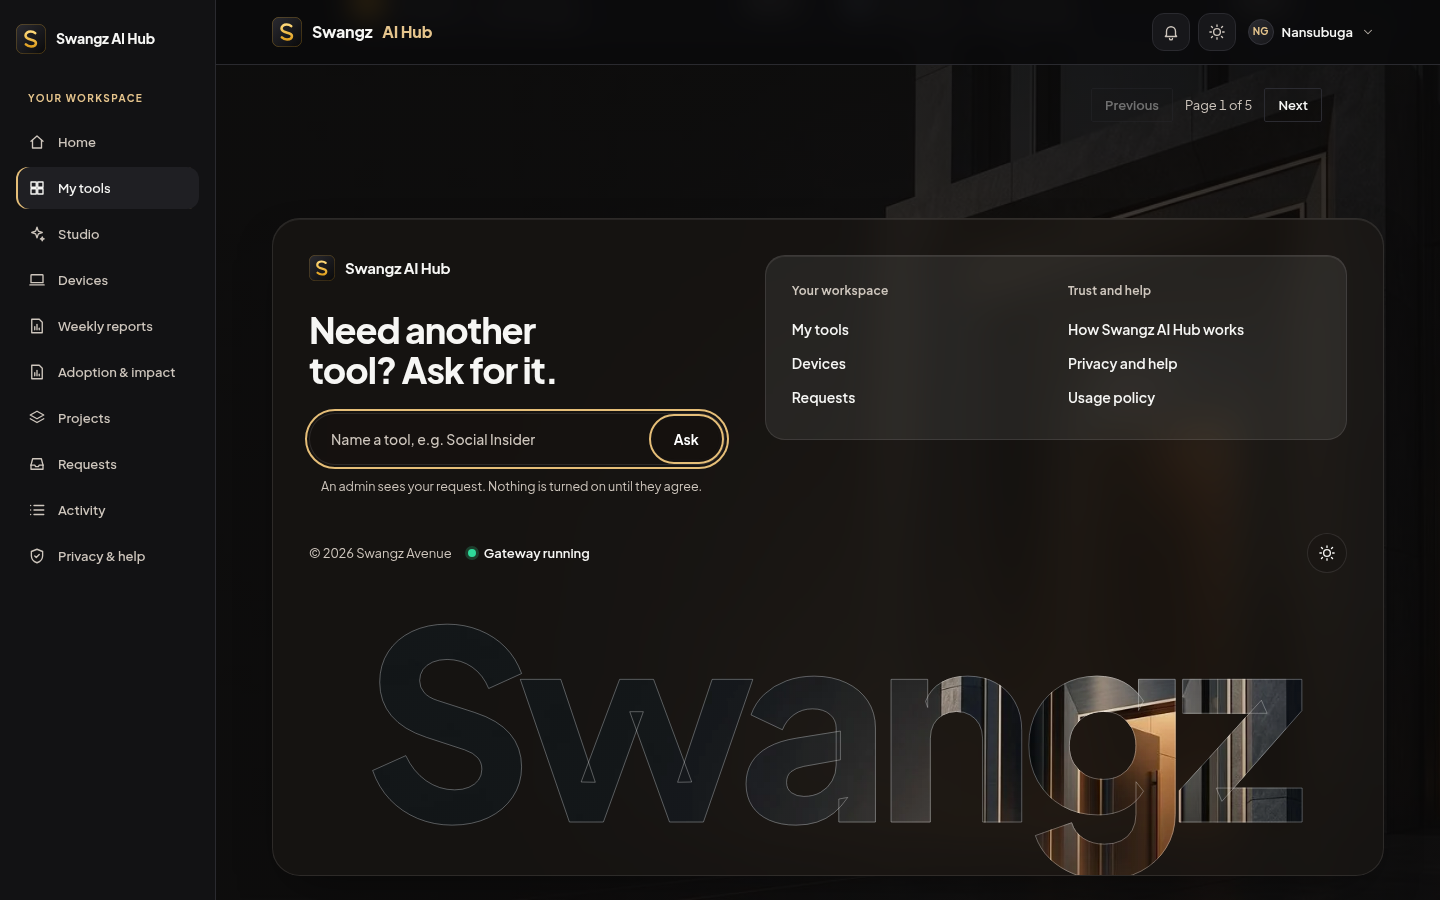
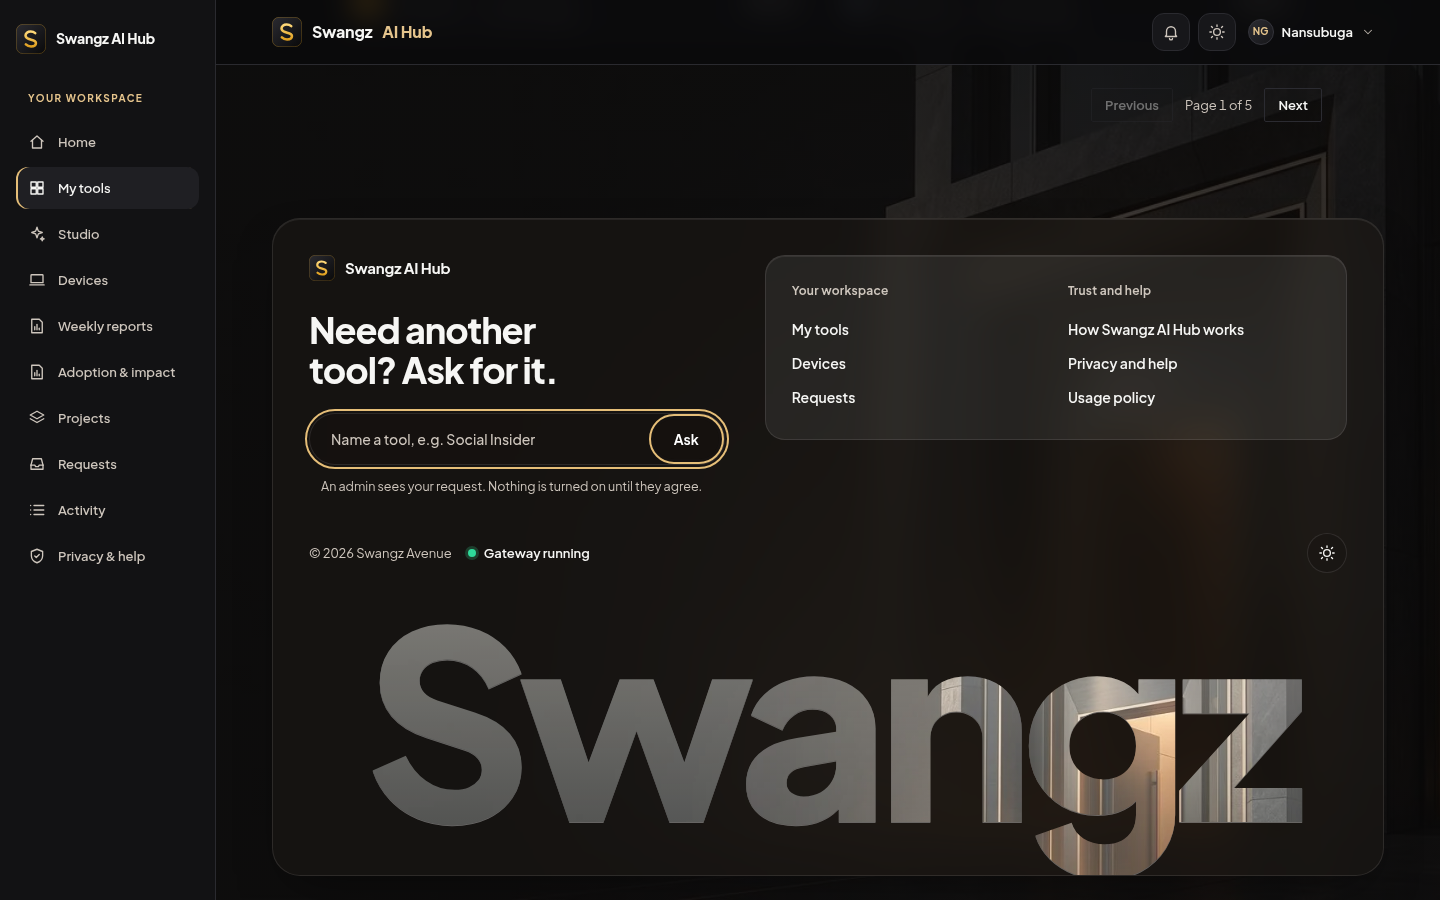
Footer wordmark: drop the text stroke that drew inner glyph contours, lift the dark cut-out so it reads

Changed region(s): [[0.25, 0.6844, 0.9062, 0.9956]]

diff --git a/gateway/static/portal.css b/gateway/static/portal.css
@@ -373,12 +373,12 @@ dialog .d-actions { display: flex; justify-content: flex-end; gap: var(--s3); pa
 .foot.glass-foot { margin-top: var(--s9); border: 0; background: none; padding: 0 var(--gutter) var(--s6); }
 .gf-wrap { max-width: var(--shell); margin: 0 auto; container-type: inline-size; }
 .gf-panel {
-  --gf-ink: var(--tx-1); --gf-ink-2: var(--tx-2); --gf-cut: rgba(12, 10, 9, .08); --gf-cut-rim: rgba(255, 255, 255, .30);
+  --gf-ink: var(--tx-1); --gf-ink-2: var(--tx-2); --gf-cut-a: rgba(255, 246, 232, .46); --gf-cut-b: rgba(255, 246, 232, .24); --gf-cut-rim: rgba(255, 255, 255, .34);
   position: relative; border-radius: 28px; padding: clamp(20px, 3vw, 36px) clamp(18px, 3vw, 36px) 0; overflow: hidden;
   background: var(--glass-bg); border: 1px solid var(--glass-rim); box-shadow: var(--glass-highlight), var(--glass-shadow);
   -webkit-backdrop-filter: var(--glass-blur); backdrop-filter: var(--glass-blur); color: var(--gf-ink);
 }
-html[data-theme="light"] .gf-panel { --gf-cut: rgba(255, 250, 244, 0); --gf-cut-rim: rgba(255, 255, 255, .85); background: linear-gradient(180deg, rgba(250, 246, 240, .74), rgba(245, 240, 234, .58)); }
+html[data-theme="light"] .gf-panel { --gf-cut-a: rgba(255, 250, 244, 0); --gf-cut-b: rgba(255, 250, 244, 0); --gf-cut-rim: rgba(255, 255, 255, .9); background: linear-gradient(180deg, rgba(250, 246, 240, .74), rgba(245, 240, 234, .58)); }
 .gf-grid { display: grid; grid-template-columns: minmax(0, 5fr) minmax(0, 7fr); gap: clamp(20px, 3vw, 40px); align-items: start; }
 .gf-brand { display: inline-flex; align-items: center; gap: 10px; font-weight: 700; font-size: 15px; letter-spacing: -.01em; }
 .gf-brand img { width: 26px; height: 26px; }
@@ -416,8 +416,9 @@ html[data-theme="light"] .gf-theme { background: rgba(60, 44, 30, .10); }
 @supports (container-type: inline-size) { .gf-word { font-size: 23.5cqw; } }
 .gf-word {
   letter-spacing: -.05em; padding-bottom: .11em; text-align: center; color: transparent; -webkit-text-fill-color: transparent;
-  background: linear-gradient(var(--gf-cut), var(--gf-cut)), var(--scene-image) center / cover fixed no-repeat; -webkit-background-clip: text; background-clip: text;
-  -webkit-text-stroke: 1px var(--gf-cut-rim);
+  background: linear-gradient(180deg, var(--gf-cut-a), var(--gf-cut-b)), var(--scene-image) center / cover fixed no-repeat; -webkit-background-clip: text; background-clip: text;
+  /* the rim is a drop-shadow of the painted shape: a text stroke would also draw the variable font's overlapping inner contours */
+  filter: drop-shadow(0 1px 0 var(--gf-cut-rim));
 }
 .gf-crest { display: none; }
 

diff --git a/docs/screenshots/glass-r11/README.md b/docs/screenshots/glass-r11/README.md
@@ -8,7 +8,7 @@ Real data only: health is the public `/healthz` (cached 60 s), "Ask" reuses the 
 
 ## Differences still left versus the reference
 - The panel's top edge settles straight; the reference keeps a wavy liquid edge. The wave (`.gf-crest`) is visible only during the reveal.
-- Wordmark letters over the dark part of the scene ("Swa" in dark theme) show the photo at low brightness, so they read faint. The cut-out follows the fixed scene, not a brighter picture.
+- In dark theme the wordmark is the fixed scene lifted by a warm light layer, so "Swa" reads as soft grey while "ngz" shows more of the photo; the reference letters are brighter still. The rim is a drop-shadow, not a text stroke (a stroke drew the variable font's overlapping inner contours).
 - The "g" descender runs into the panel's bottom edge on purpose (cut-off wordmark); the reference shows the full letter.
 - Light theme panel is a flatter cream than the reference's frosted white; there is only one blur layer by design.
 - `background-attachment: fixed` is ignored on iOS Safari, so the cut-out falls back to the scene scaled to the wordmark box.
